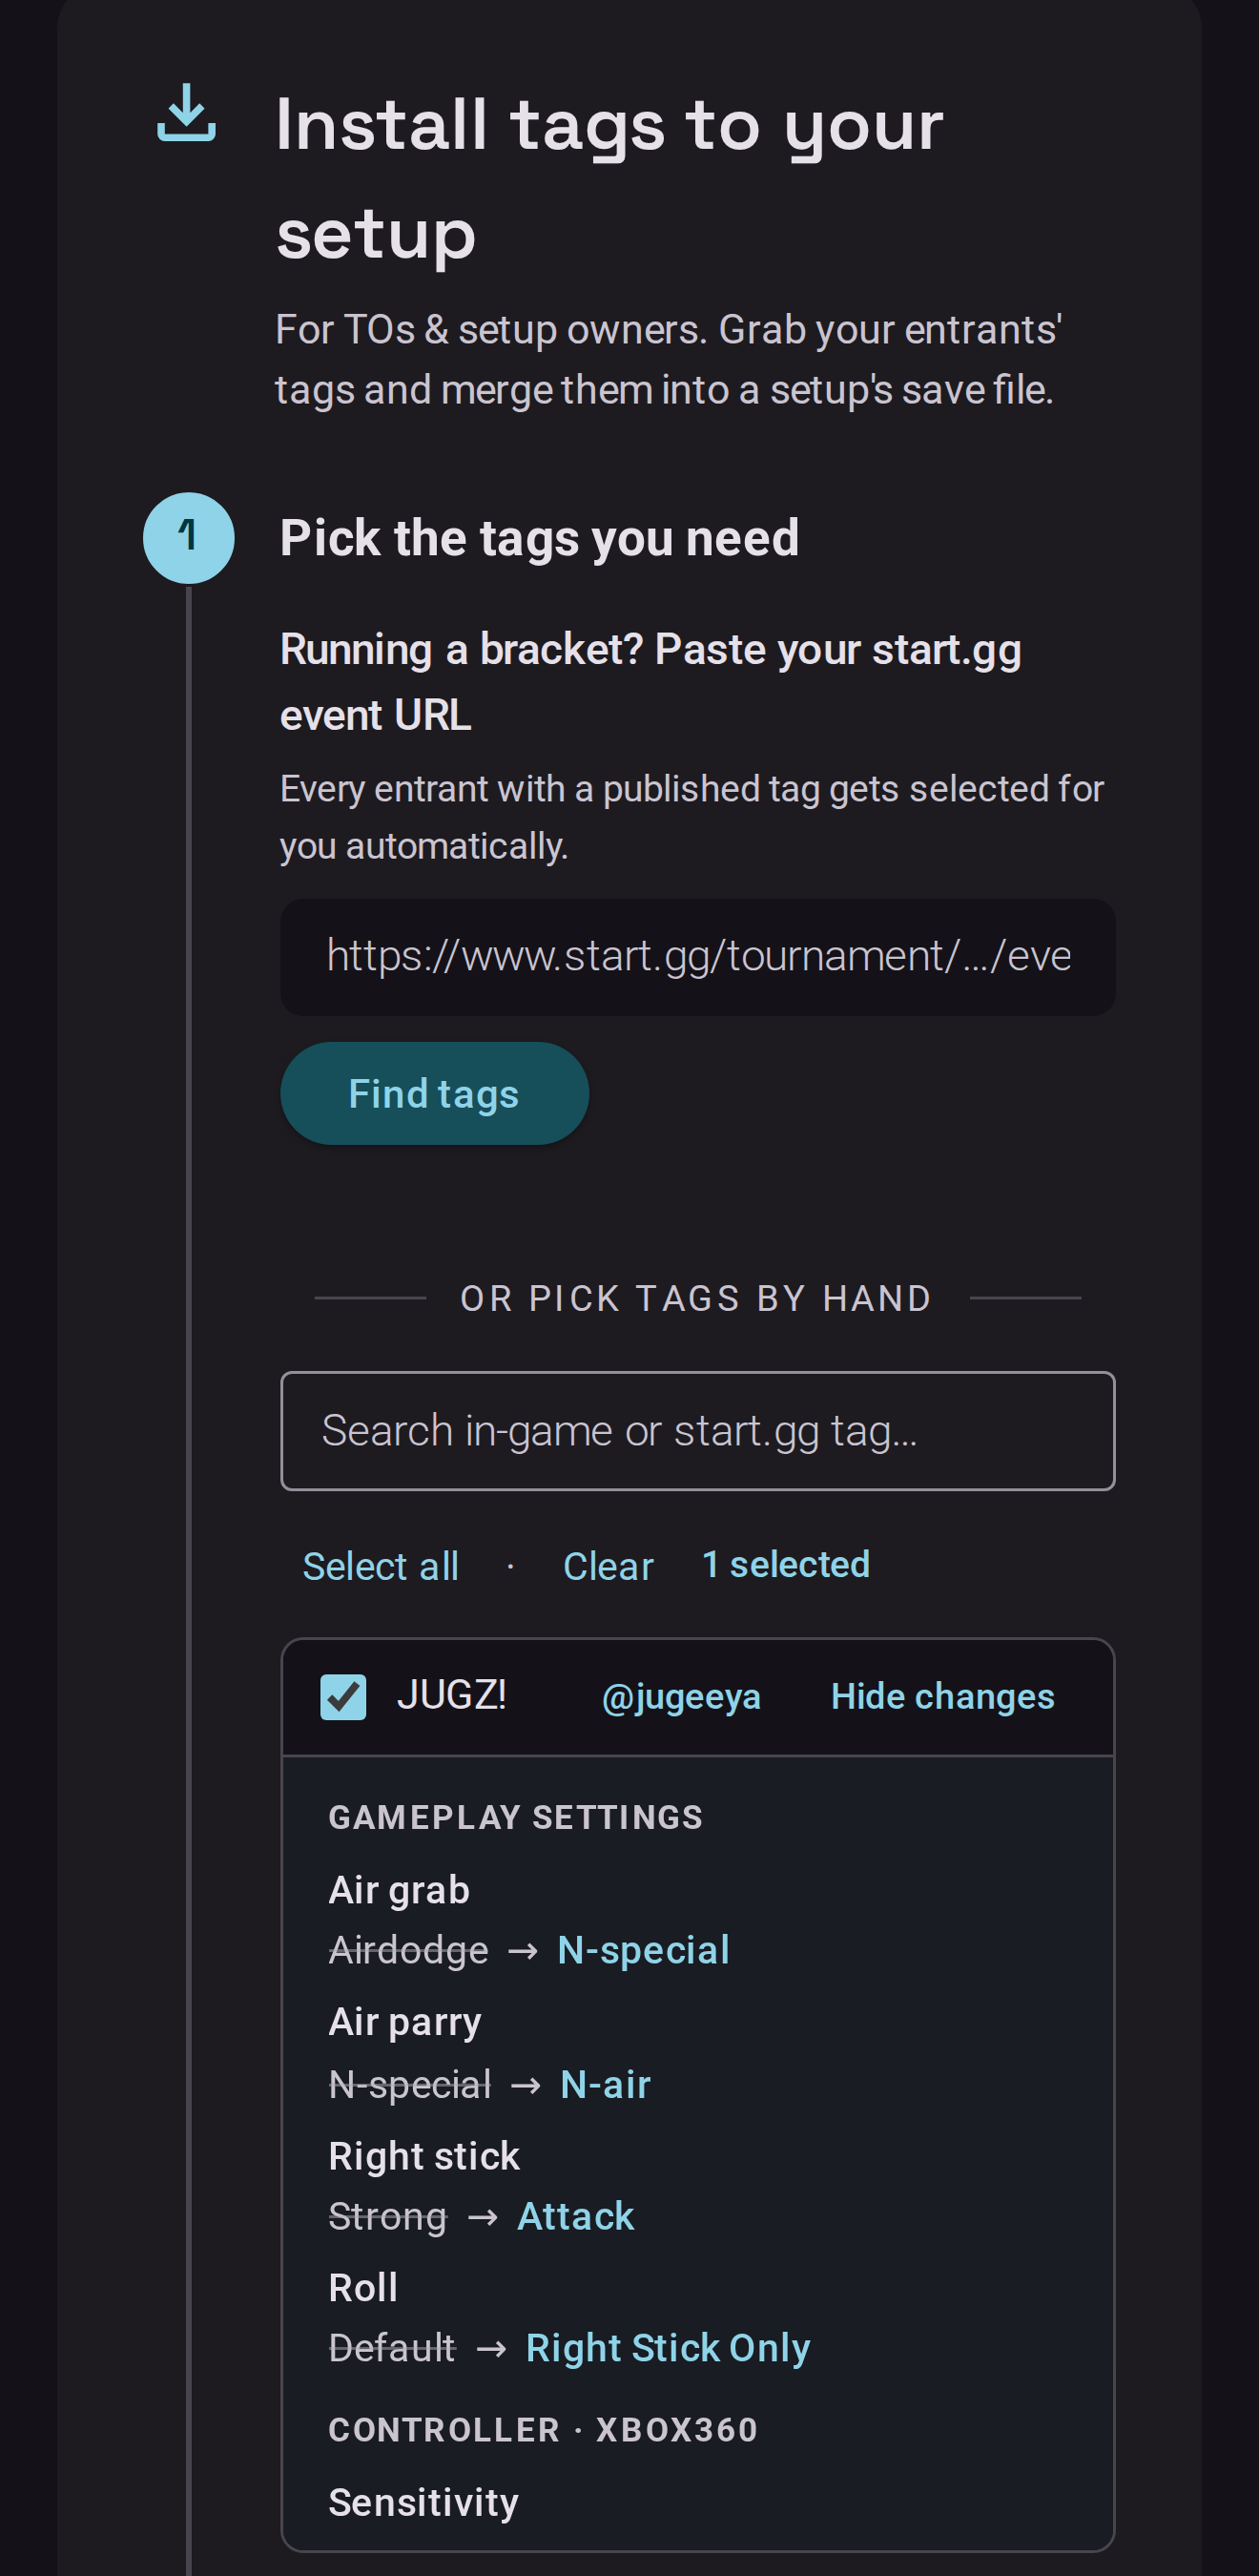
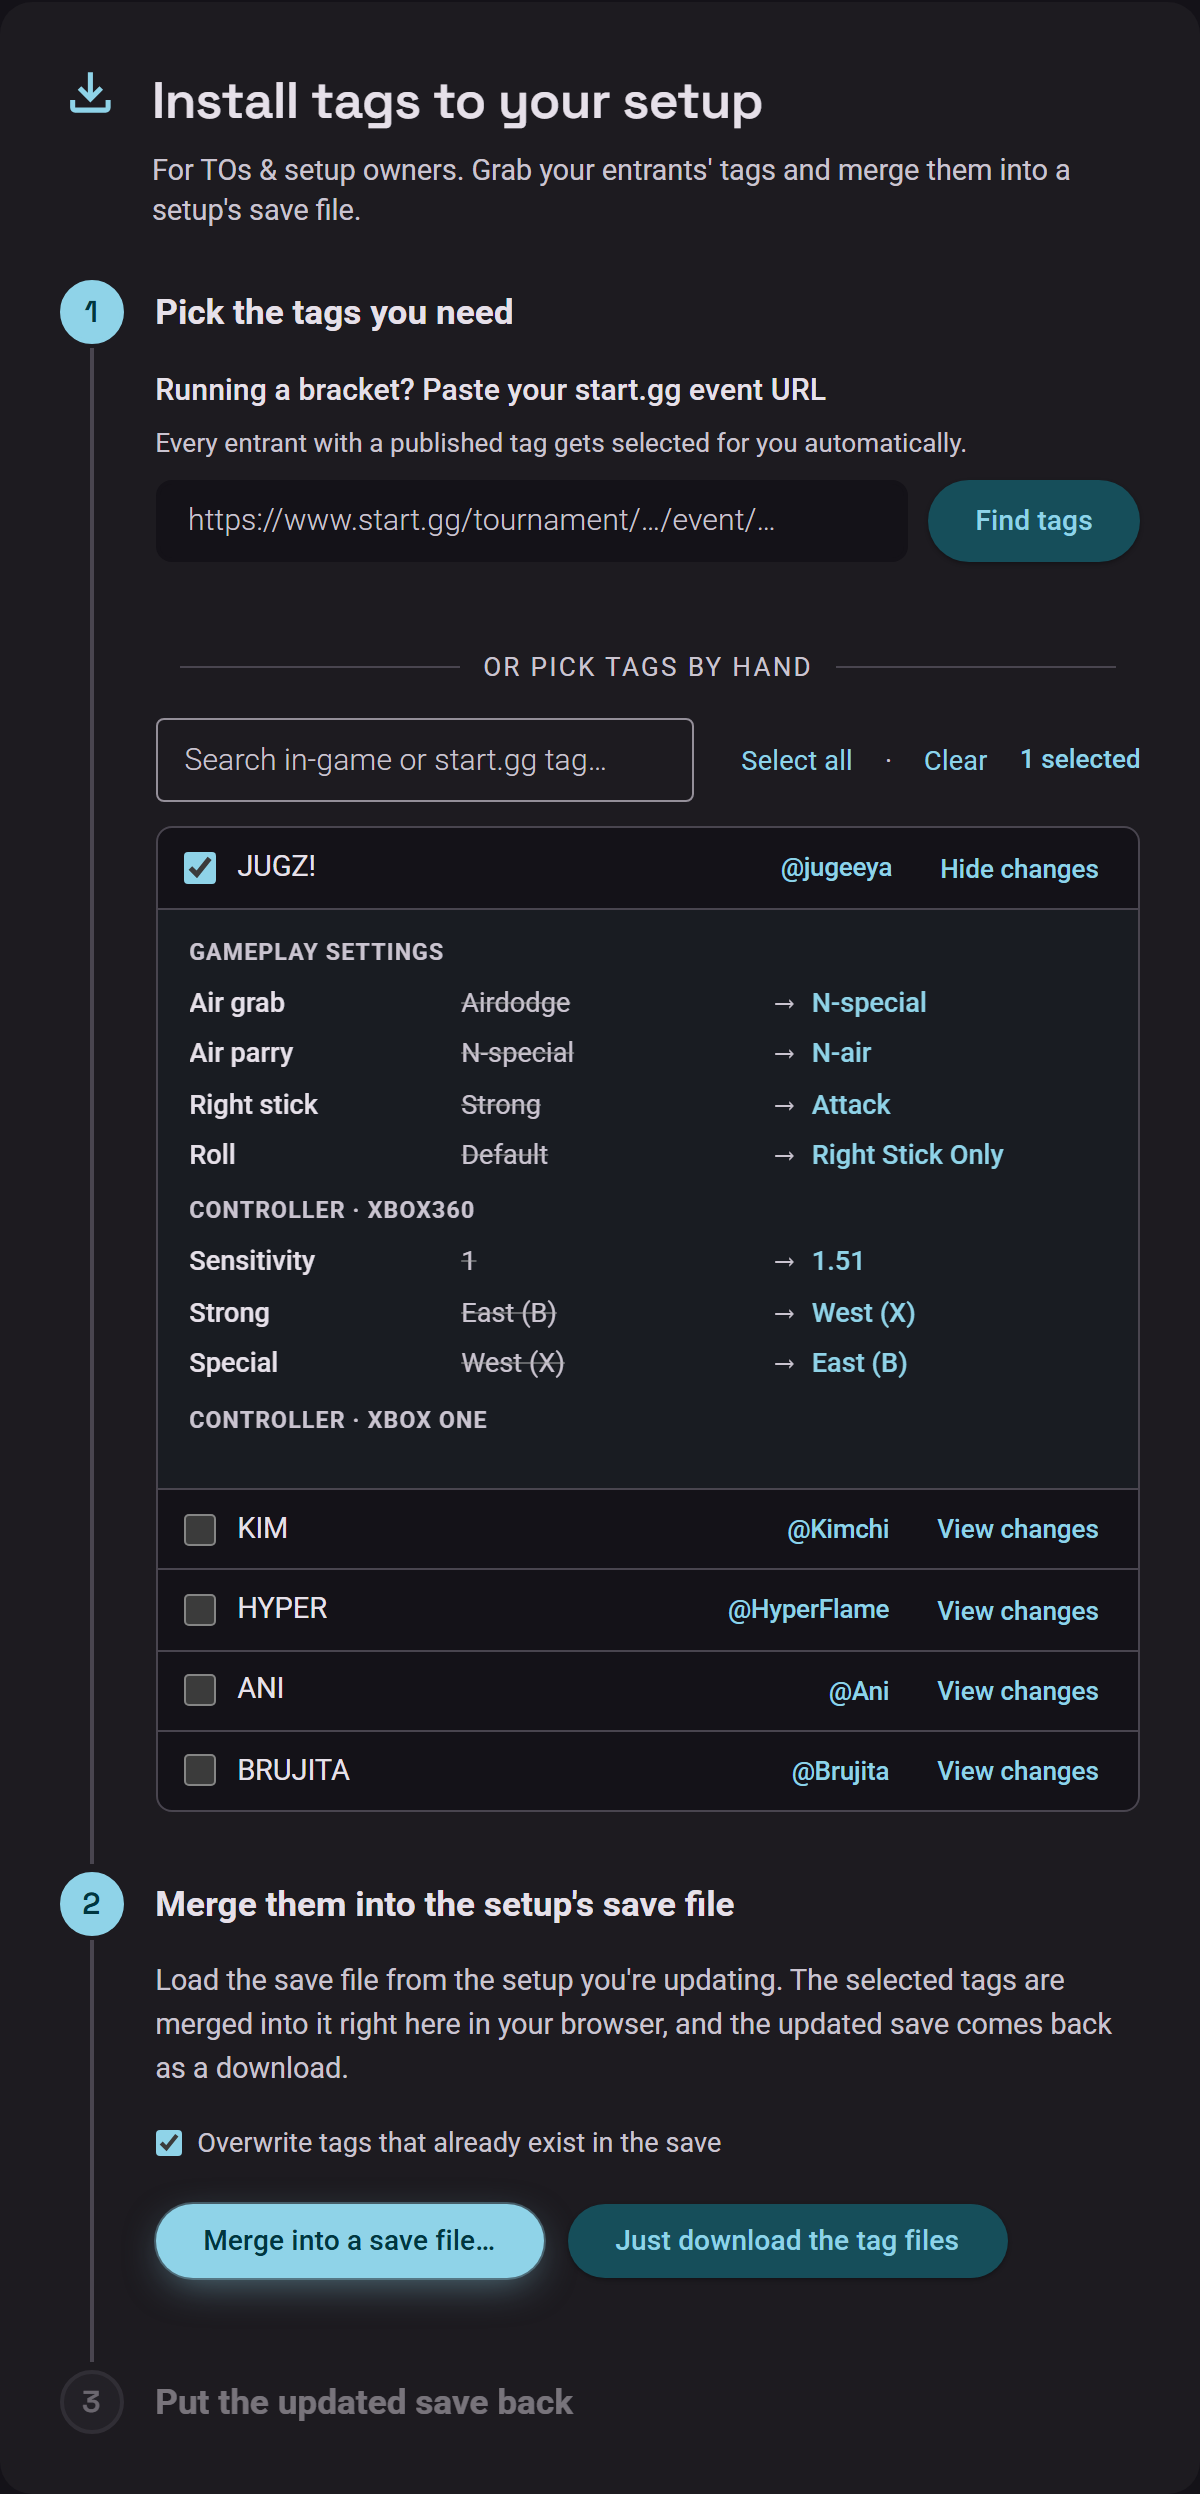
tags: polish hero screenshots per feedback
- Drop the card caption text -- the screenshots already show their own
  section heading, so it was redundant. Alt text moves to the button's
  aria-label instead (still accessible, no visible dupe).
- The mocked second start.gg search result is now "jugeeya_boogaloo"
  (was "jugz"/"RA | HyperNova" mismatches) so both results plausibly
  answer the "jugeeya" query the share shot actually types.
- Real avatars: jugeeya's actual start.gg pfp (fetched once via the
  broker, committed as demo/jugeeya-avatar.jpg -- outside demo/fixtures/,
  which is gitignored for the large generated .sav) for the real match,
  a generic silhouette for the fabricated second account (no stranger's
  real photo stands in for a made-up profile).
- Install shot: uncap #tagList's inner scroll during capture so KIM/
  HYPER/ANI/BRUJITA render unselected below the open diff, not hidden
  behind a 320px scroll clip.
- Widen the capture viewport 440->640 (source shots now 1200px @user) and
  the lightbox display 440->760px -- the point of clicking is to read
  detail up close, so the enlarged view needed to actually get bigger
  too, not just the source image.
- Switched capture from viewport screenshots to element screenshots of
  each flow panel (page.locator(sel).screenshot()), so a shot is always
  the whole self-contained panel regardless of viewport height, instead
  of an arbitrary scroll-and-crop that could spill into the next section.

diff --git a/tags/tags.css b/tags/tags.css
@@ -801,8 +801,7 @@ code {
 }
 
 .shot {
-    display: flex;
-    flex-direction: column;
+    display: block;
     padding: 0;
     background: var(--md-surface-container-lowest, #0f0d13);
     border: 1px solid var(--border-color);
@@ -821,29 +820,21 @@ code {
     box-shadow: var(--md-glow);
 }
 
+/* The shots are tall; show the top of each as a card and fade the bottom to
+   hint it continues (click to see the whole thing). The screenshots already
+   carry their own section heading, so the cards need no caption. */
 .shot img {
     display: block;
     width: 100%;
-    height: 300px;
+    height: 320px;
     object-fit: cover;
     object-position: top center;
-    /* A soft fade at the bottom hints the shot continues (click to see more). */
-    -webkit-mask-image: linear-gradient(to bottom, #000 78%, transparent);
-    mask-image: linear-gradient(to bottom, #000 78%, transparent);
-}
-
-.shot-caption {
-    padding: 0.6rem 0.85rem 0.75rem;
-    font-family: var(--font-display);
-    font-size: 0.92rem;
-    font-weight: 600;
-    color: var(--text-color);
-    text-align: left;
+    -webkit-mask-image: linear-gradient(to bottom, #000 80%, transparent);
+    mask-image: linear-gradient(to bottom, #000 80%, transparent);
 }
 
 @media (max-width: 460px) {
-    .shot img { height: 240px; }
-    .shot-caption { font-size: 0.85rem; }
+    .shot img { height: 250px; }
 }
 
 /* Lightbox: full screenshot on a dimmed backdrop, scrollable if taller than
@@ -867,7 +858,9 @@ code {
 .lightbox[hidden] { display: none; }
 
 .lightbox-img {
-    width: min(440px, 100%);
+    /* The whole point of clicking is to read a wide, detailed shot up close,
+       so let it use most of the viewport width rather than the card's size. */
+    width: min(760px, 100%);
     height: auto;
     border-radius: 14px;
     border: 1px solid var(--border-color);

diff --git a/tags/index.html b/tags/index.html
@@ -28,15 +28,13 @@
                     few clicks.</p>
             </div>
             <div class="demo-gallery" aria-label="Screenshots of the tag sharing tool">
-                <button type="button" class="shot" data-full="shots/share.png">
-                    <img src="shots/share.png" loading="lazy"
-                        alt="Share your tag: load your Rivals II save, pick the tags to share, and link each to a start.gg account">
-                    <span class="shot-caption">Share your tag</span>
+                <button type="button" class="shot" data-full="shots/share.png"
+                    aria-label="Share your tag: load your Rivals II save, pick the tags to share, and link each to a start.gg account">
+                    <img src="shots/share.png" alt="" loading="lazy">
                 </button>
-                <button type="button" class="shot" data-full="shots/install.png">
-                    <img src="shots/install.png" loading="lazy"
-                        alt="Install tags to your setup: pick the tags you need, preview their control changes, and merge them into a save file">
-                    <span class="shot-caption">Install tags to a setup</span>
+                <button type="button" class="shot" data-full="shots/install.png"
+                    aria-label="Install tags to your setup: pick the tags you need, preview their control changes, and merge them into a save file">
+                    <img src="shots/install.png" alt="" loading="lazy">
                 </button>
             </div>
         </header>